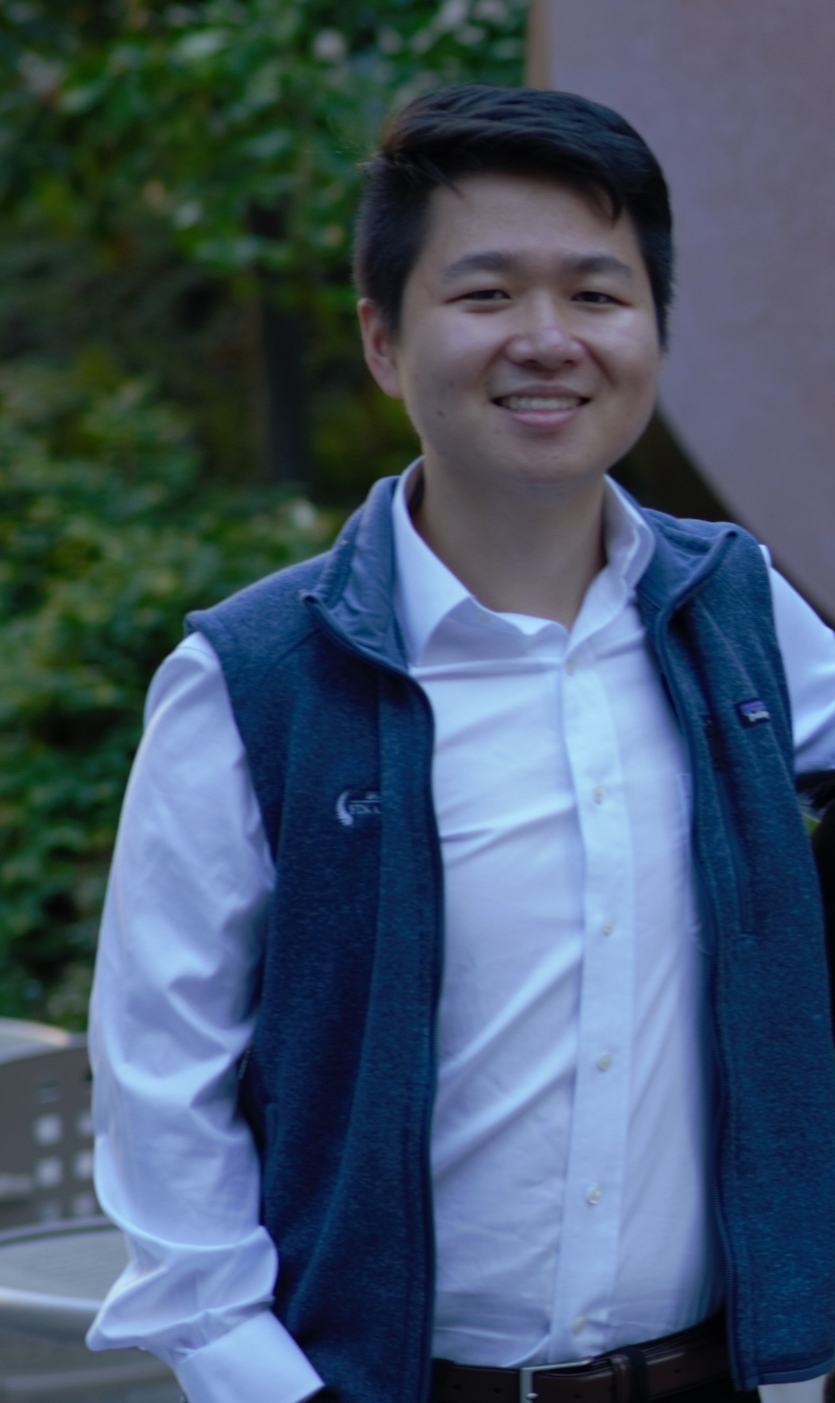
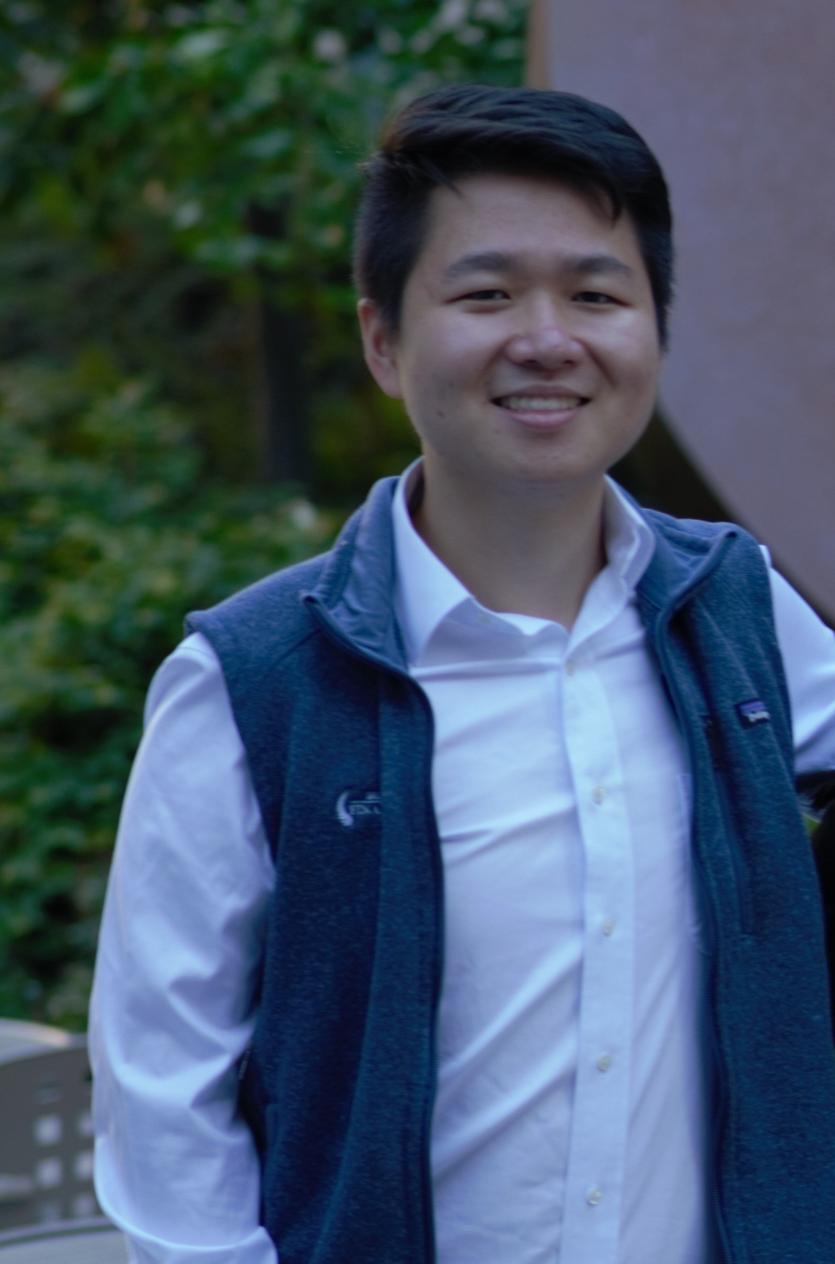
kevin and michael updated

diff --git a/bootcamp/index.html b/bootcamp/index.html
@@ -324,23 +324,10 @@
             </a>
             <div class="Profiles-caption">
               <h4>Kevin Wu</h4>
-              <p class="text-muted">Consulting, Finance, Technology</p>
+              <p class="text-muted">Management Consulting, Finance, Technology</p>
             </div>
           </div>
-          <div class="col-md-4 col-sm-6 Profiles-item">
-            <a class="Profiles-link" data-toggle="modal" href="#ProfilesModal8">
-              <div class="Profiles-hover">
-                <div class="Profiles-hover-content">
-                  <i class="fas fa-plus fa-3x"></i>
-                </div>
-              </div>
-              <img class="img-fluid" src="img/headshots/G_thumb.jpg" alt="">
-            </a>
-            <div class="Profiles-caption">
-              <h4>Michael Wroblewski</h4>
-              <p class="text-muted">Design, Music, Health, Product Design, Video Games</p>
-            </div>
-          </div>
+
           <div class="col-md-4 col-sm-6 Profiles-item">
             <a class="Profiles-link" data-toggle="modal" href="#ProfilesModal9">
               <div class="Profiles-hover">
@@ -352,7 +339,7 @@
             </a>
             <div class="Profiles-caption">
               <h4>Michelle Zhang</h4>
-              <p class="text-muted">Product Management, Software Engineering, Tech Consulting, Data Science</p>
+              <p class="text-muted">Product Management, Software, Tech Consulting, Data Science</p>
             </div>
           </div>
           <div class="col-md-4 col-sm-6 Profiles-item">
@@ -397,8 +384,6 @@
               <p class="text-muted">Product Management, Data Science, Analytics</p>
             </div>
           </div>
-        </div>
-        <div class="row">
           <div class="col-md-4 col-sm-6 Profiles-item">
             <a class="Profiles-link" data-toggle="modal" href="#ProfilesModal13">
               <div class="Profiles-hover">
@@ -410,7 +395,23 @@
             </a>
             <div class="Profiles-caption">
               <h4>Sneha Somaya</h4>
-              <p class="text-muted">Data Science, Fin-Tech, Analytics, SaaS</p>
+              <p class="text-muted">Data Science, Fin-Tech, Analytics, Ethics in Tech</p>
+            </div>
+          </div>
+        </div>
+        <div class="row">
+          <div class="col-md-4 col-sm-6 Profiles-item">
+            <a class="Profiles-link" data-toggle="modal" href="#ProfilesModal8">
+              <div class="Profiles-hover">
+                <div class="Profiles-hover-content">
+                  <i class="fas fa-plus fa-3x"></i>
+                </div>
+              </div>
+              <img class="img-fluid" src="img/headshots/michaelW2.jpg" alt="">
+            </a>
+            <div class="Profiles-caption">
+              <h4>Michael Wroblewski</h4>
+              <p class="text-muted">Design, Music, Health, Product Design, Video Games</p>
             </div>
           </div>
           <div class="col-md-4 col-sm-6 Profiles-item">
@@ -424,7 +425,7 @@
             </a>
             <div class="Profiles-caption">
               <h4>Vibha Seshadri</h4>
-              <p class="text-muted">Finance, Software, Education</p>
+              <p class="text-muted">Finance, Software Engineering, Education</p>
             </div>
           </div>
         </div>
